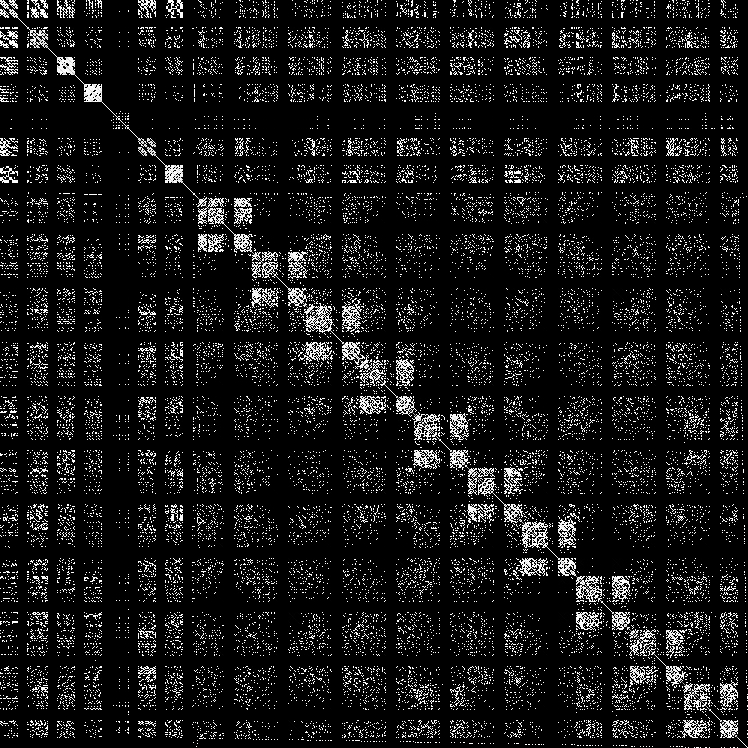
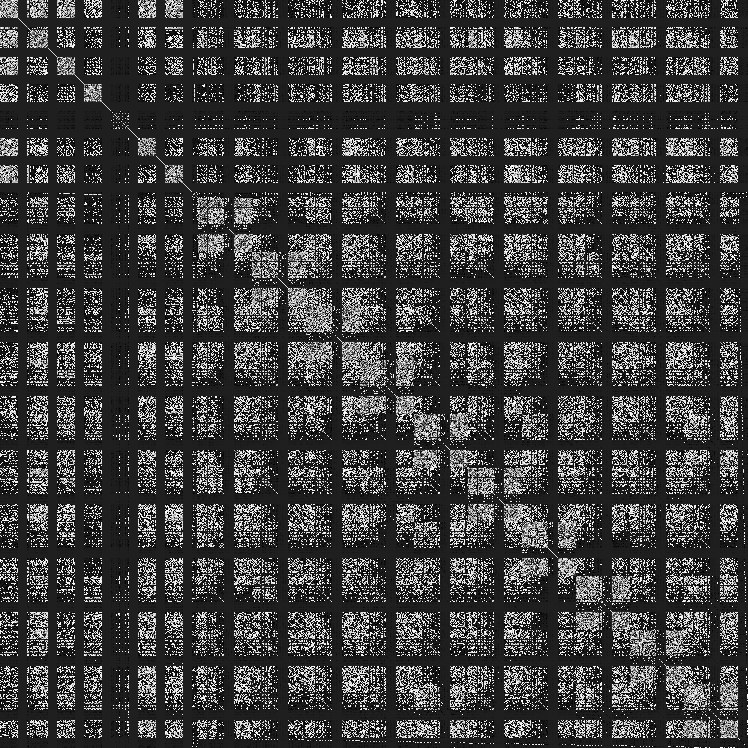
feat: add plot of Hessian matrix

diff --git a/hessian/classification_ll_dense.py b/hessian/classification_ll_dense.py
@@ -1,7 +1,7 @@
 from re import X
 import sys
 import os
-os.environ["CUDA_VISIBLE_DEVICES"] = "7"
+os.environ["CUDA_VISIBLE_DEVICES"] = "5"
 
 from numpy.core.function_base import add_newdoc
 current = os.path.dirname(os.path.realpath(__file__))
@@ -13,6 +13,7 @@ import numpy as np
 from tqdm import tqdm
 import seaborn as sns
 from matplotlib import pyplot as plt
+import PIL.ImageOps  
 
 import torch
 import torch.nn as nn
@@ -65,97 +66,105 @@ def plot_tensors(tensor):
     ax.set_yticklabels([])
    
 
-if __name__ == '__main__':
+
+models_dir = 'theta'
+results_dir = 'results'
+device = "cuda" if torch.cuda.is_available() else "cpu"
+parent = os.path.dirname(current)
+path = parent + "/data"
+# load and normalize MNIST
+new_mirror = 'https://ossci-datasets.s3.amazonaws.com/mnist'
+datasets.MNIST.resources = [
+    ('/'.join([new_mirror, url.split('/')[-1]]), md5)
+    for url, md5 in datasets.MNIST.resources
+]
+
+train_set = datasets.MNIST(root=path,
+                                        train=True,
+                                        transform=transforms.ToTensor(),
+                                        download=True)
+train_loader = DataLoader(train_set, batch_size=32)
+
+# And some for evaluating/testing
+test_set = datasets.MNIST(root=path,
+                                        train=False,
+                                        transform=transforms.ToTensor(),
+                                        download=True)
+test_loader = DataLoader(test_set, batch_size=1)
+
+# Train the model
+net = BaseNet(lr=1e-3, epoch=3, batch_size=32, device=device)
+#net.load(models_dir + '/theta_best.dat')
+criterion = nn.CrossEntropyLoss().to(device)
+net.train(train_loader, criterion)
+sgd_predictions, sgd_labels = net.eval(test_loader)
+
+print(f"MAP Accuracy: {100 * np.mean(np.argmax(sgd_predictions.cpu().numpy(), axis=1) == sgd_labels.numpy()):.2f}%")
+
+
+
+# update likelihood FIM
+H = None
+for images, labels in tqdm(test_loader):
+    logits = net.model(images.to(device))
+    dist = torch.distributions.Categorical(logits=logits)
+    # A rank-1 Kronecker factored FiM approximation.
+    labels = dist.sample()
+    loss = criterion(logits, labels)
+    net.model.zero_grad()
+    loss.backward()
+            
+    grads = []
+    for layer in list(net.model.modules())[1:]:
+        for p in layer.parameters():    
+            J_p = torch.flatten(p.grad.view(-1)).unsqueeze(0)
+            grads.append(J_p)
+    J_loss = torch.cat(grads, dim=1)
+    H_loss = J_loss.t() @ J_loss
+    H_loss.requires_grad = False
+    H = H_loss if H == None else H + H_loss
+
+H = H/len(test_loader)    
+
+
+# inversion of H
+add = 1
+multiply = 200
+diag = torch.diag(H.new(H.shape[0]).fill_(add ** 0.5))
+reg = multiply ** 0.5 * H + diag
+H_inv = torch.inverse(reg)
+
+
+sum_diag = torch.diag(H_inv).abs().sum().item()
+torch.abs(H_inv).sum().item()
+sum_non_diag = torch.abs(H_inv-torch.diag(torch.diag(H_inv))).sum()
+print(f"sum of diagonal: {sum_diag:.2f}")
+print(f"sum of non-diagonal: {sum_non_diag:.2f}")
+
+
+H_abs = H_inv.abs().unsqueeze(2) #shape: 15080*15080*1
+mean, std = H_abs.mean(), H_abs.std()
+trans = transforms.Normalize(mean=mean, std=std)
+H_norm = trans(H_abs).squeeze(2) #normalize H to [0,1], shape:15080*15080
+ax1 = sns.heatmap(H_norm.cpu().numpy(), vmin=0, vmax=1)
+fig1 = ax1.get_figure()
+fig1.savefig(parent+'/results/H_inv_15k_norm.png')
     
-    models_dir = 'theta'
-    results_dir = 'results'
-    device = "cuda" if torch.cuda.is_available() else "cpu"
-    parent = os.path.dirname(current)
-    path = parent + "/data"
-    # load and normalize MNIST
-    new_mirror = 'https://ossci-datasets.s3.amazonaws.com/mnist'
-    datasets.MNIST.resources = [
-        ('/'.join([new_mirror, url.split('/')[-1]]), md5)
-        for url, md5 in datasets.MNIST.resources
-    ]
+ax2 = transforms.ToPILImage()(H_norm)
+ax2 = PIL.ImageOps.invert(ax2)
+ax2.save(parent+'/results/H_inv_15k.png')
 
-    train_set = datasets.MNIST(root=path,
-                                           train=True,
-                                           transform=transforms.ToTensor(),
-                                           download=True)
-    train_loader = DataLoader(train_set, batch_size=32)
-
-    # And some for evaluating/testing
-    test_set = datasets.MNIST(root=path,
-                                          train=False,
-                                          transform=transforms.ToTensor(),
-                                          download=True)
-    test_loader = DataLoader(test_set, batch_size=1)
-
-    # Train the model
-    net = BaseNet(lr=1e-3, epoch=3, batch_size=32, device=device)
-    #net.load(models_dir + '/theta_best.dat')
-    criterion = nn.CrossEntropyLoss().to(device)
-    net.train(train_loader, criterion)
-    sgd_predictions, sgd_labels = net.eval(test_loader)
-    
-    print(f"MAP Accuracy: {100 * np.mean(np.argmax(sgd_predictions.cpu().numpy(), axis=1) == sgd_labels.numpy()):.2f}%")
-    
-
-    H = None
-    for images, labels in tqdm(test_loader):
-        logits = net.model(images.to(device))
-        dist = torch.distributions.Categorical(logits=logits)
-        # A rank-1 Kronecker factored FiM approximation.
-        labels = dist.sample()
-        loss = criterion(logits, labels)
-        net.model.zero_grad()
-        loss.backward()
-              
-        grads = []
-        for layer in list(net.model.modules())[1:]:
-            for p in layer.parameters():    
-                grads.append(torch.flatten(p.grad.view(-1)))
-        J_loss = torch.cat(grads, dim=0).unsqueeze(0) 
-        H_loss = J_loss.t() @ J_loss
-        H_loss.requires_grad = False
-        H = H_loss if H == None else H + H_loss
-
-    H = H/len(test_loader)    
-
-    # inversion of H
-    add = 1
-    multiply = 200
-    diag = torch.diag(H.new(H.shape[0]).fill_(add ** 0.5))
-    reg = multiply ** 0.5 * H + diag
-    H_inv = torch.inverse(reg)
-
-
-    sum_diag = torch.diag(H_inv).abs().sum()
-    sum_non_diag = torch.abs(H_inv-torch.diag(H_inv)).sum()
-
-    sum_h_diag = torch.diag(H).abs().sum()
-    sum_h_non_diag = torch.abs(H-torch.diag(H)).sum()
-    print(f"sum of diagonal: {sum_h_diag:.2f}")
-    print(f"sum of non-diagonal: {sum_h_non_diag:.2f}")
-
-    img = transforms.ToPILImage()(H_inv)
-    img.save(parent+"/results/H_inv_700.png")
-
-
-    
 """
 748
 H_inv
-sum of diagonal: 238.33
-sum of non-diagonal: 179686.03
+sum of diagonal: 605.26
+sum of non-diagonal: 1609.85
 
+
+151304.75
 15080
 H_inv 
 sum of diagonal: 14879.16
-sum of non-diagonal: 224367232
-H
-sum of diagonal: 183.76
-sum of non-diagonal: 2773959.75
+sum of non-diagonal: 63296.37
 
 """

diff --git a/models/wrapper.py b/models/wrapper.py
@@ -53,7 +53,7 @@ class BaseNet(object):
         torch.manual_seed(42)
         if self.device == 'cuda':
             torch.cuda.manual_seed(42)  
-        self.model = Net()
+        self.model = Net_large()
         if self.device == 'cuda':
             self.model.to(torch.device('cuda'))
         print('Total params: %.2fK' % (self.get_nb_parameters() / 1000.0))
